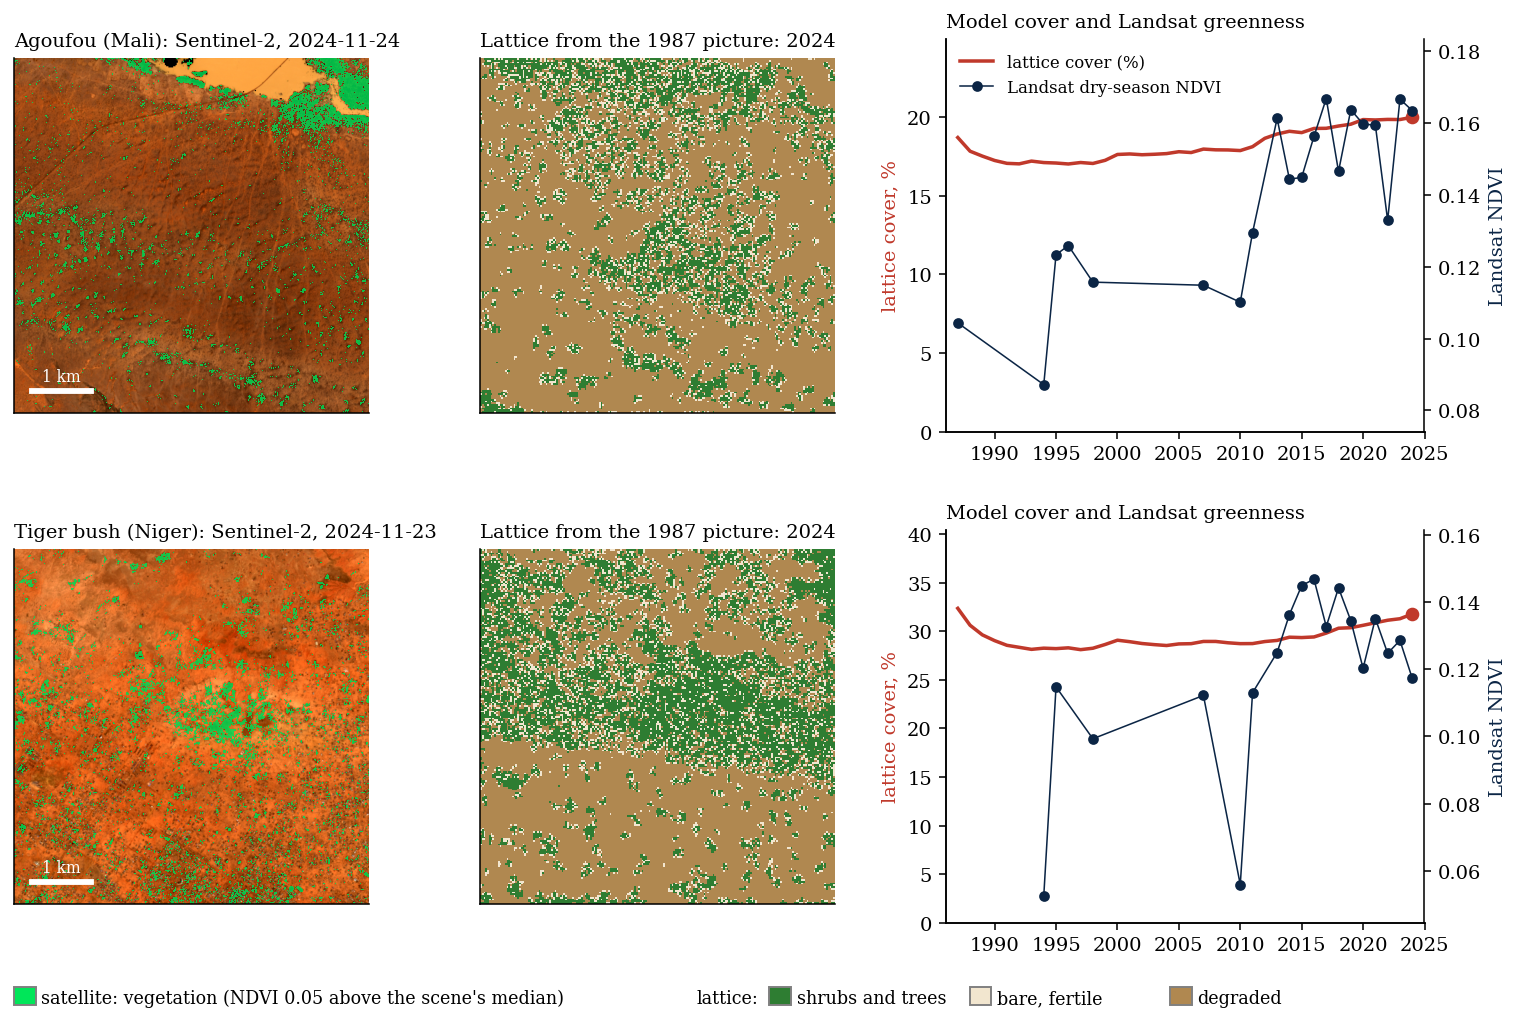
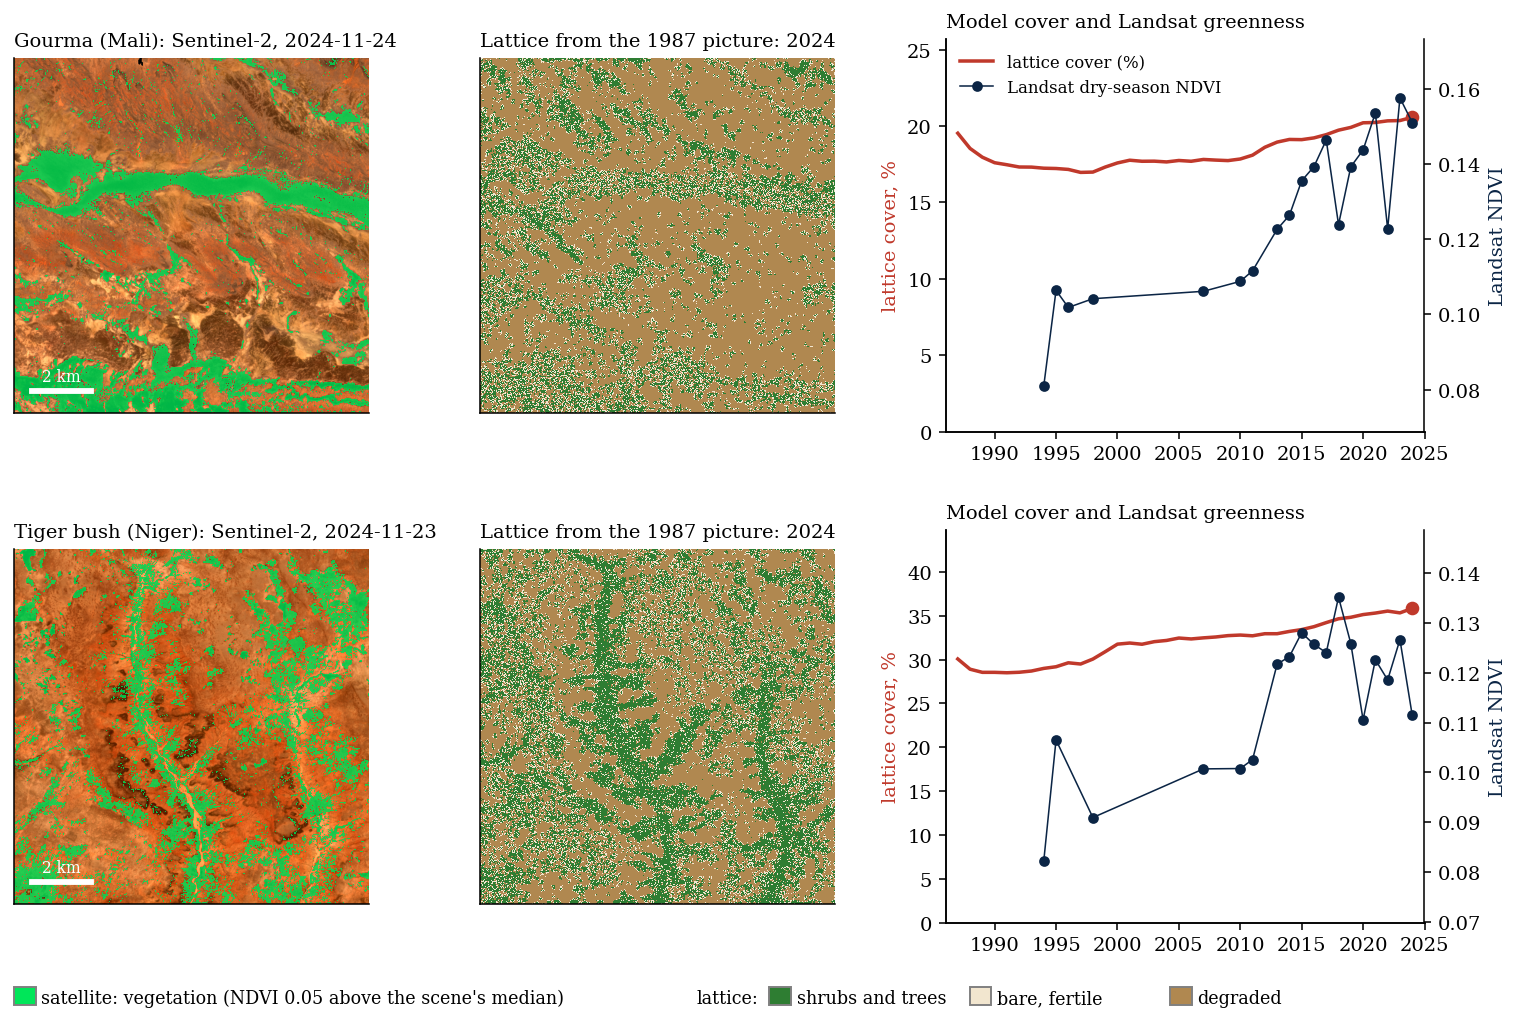
016: animation at 12 km sites (Gourma valley, Niamey tiger bush), full-coverage scenes, 400 x 400 lattice

diff --git a/016-sahel-desertification/animate_landsat.py b/016-sahel-desertification/animate_landsat.py
@@ -1,14 +1,15 @@
 #!/usr/bin/env python3
 #-------- animate_landsat.py --------------------------------------------------------
 #-----------------------------------------------------------------------------
-# The lattice beside forty years of real satellite pictures, at two Sahel sites with woody
-# vegetation and no fields: Agoufou in the Gourma (Mali), dune shrubland, and a tiger-bush
-# plateau north of Niamey (Niger), where the bush has been cut for firewood.
+# The lattice beside forty years of real satellite pictures, at two 12 x 12 km Sahel sites
+# with woody vegetation and no fields: a wooded valley and shrubland in the Gourma (Mali,
+# 15.20 N 1.40 W), and a tiger-bush plateau north of Niamey (Niger, 13.70 N 1.95 E), where
+# the bush has been cut for firewood.
 #
 # Each frame is one year, 1987-2024. For each site:
-#   left     the satellite picture of the 6 x 6 km site in true colour: the clearest
+#   left     the satellite picture of the 12 x 12 km site in true colour: the clearest
 #            October-November scene (fetch_site_pictures.py), Landsat at 30 m to 2015 and
-#            Sentinel-2 at 10 m from 2016, one brightness stretch for all three bands. Bright
+#            Sentinel-2 at 20 m from 2016, only scenes covering the whole box, one brightness stretch for all three bands. Bright
 #            green marks pixels clearly greener than the scene's own background (NDVI 0.05
 #            above its median). Landsat 5's archive over West Africa has gaps, so the latest
 #            available scene is shown, labelled with its sensor and date
@@ -43,8 +44,8 @@ from sahel_ca import Landscape, VEG, EMPTY, quality_field
 HERE = os.path.dirname(os.path.abspath(__file__))
 NAVY, BLUE, LIGHT, RED, GREY = "#0b2545", "#1f6fb2", "#8cc0e8", "#c0392b", "#8a8a8a"
 CMAP = ListedColormap(["#b08850", "#f2e6cf", "#2e7d32"])        # degraded, empty, vegetated
-SITES = {"agoufou": "Agoufou (Mali)", "tigerbush": "Tiger bush (Niger)"}
-B0, D0, SEED_RAIN, N = 0.45, 0.3, 0.03, 200
+SITES = {"gourma_wadi": "Gourma (Mali)", "tigerbush_plateau": "Tiger bush (Niger)"}
+B0, D0, SEED_RAIN, N = 0.45, 0.3, 0.03, 400           # 400 x 400 cells of 30 m: a 12 x 12 km site
 DELTA, GROUND_LENGTH = 0.03, 8                   # local seed spread; hollows judged against the land within ~240 m
 STRENGTHS = [0.25, 0.5, 0.75, 1.0]               # uneven-ground strength: the weakest that clumps about as well as the best
 START = 1987                                     # both runs start from that year's satellite picture
@@ -70,10 +71,9 @@ def ground_quality(site, strength):
 
 
 def picture_ndvi(site, year):
+    from clumping import to_grid
     pics = np.load(os.path.join(HERE, "data", f"pictures_{site}.npz"))
-    a = pics[f"rgb_{year}"].astype(float)
-    if a.shape[0] == 600:
-        a = a.reshape(200, 3, 200, 3, 4).mean(axis=(1, 3))
+    a = to_grid(pics[f"rgb_{year}"].astype(float), N)
     return (a[..., 3] - a[..., 0]) / (a[..., 3] + a[..., 0] + 1e-6)
 
 
@@ -118,7 +118,7 @@ def choose_strength(site):
     res = []
     for st in STRENGTHS:
         grids, cover, _ = run_lattice(site, st)
-        sat = satellite_clumping(site, {int(k): v for k, v in cover.items()})
+        sat = satellite_clumping(site, {int(k): v for k, v in cover.items()}, n=N)
         yrs = [y for y in sat if y in grids and y > START]
         lat_c = np.mean([clump(grids[y] == VEG) for y in yrs]); sat_c = np.nanmean([sat[y] for y in yrs])
         res.append((st, abs(float(np.log(lat_c / sat_c))), lat_c, sat_c))
@@ -168,13 +168,13 @@ def main():
             if avail:
                 k = avail[-1]
                 im = D["rgb"][k]
-                ax.imshow(stretch(im[..., :3]), extent=(0, 200, 200, 0))
-                ax.imshow(veg_overlay(im), extent=(0, 200, 200, 0), interpolation="nearest")
+                ax.imshow(stretch(im[..., :3]), extent=(0, N, N, 0))
+                ax.imshow(veg_overlay(im), extent=(0, N, N, 0), interpolation="nearest")
                 ax.set_title(f"{SITES[site]}: {D['sensors'][k]}, {D['dates'][k]}", loc="left", fontsize=10)
             else:
                 ax.text(0.5, 0.5, "no clear scene yet", ha="center", va="center", transform=ax.transAxes, color=GREY)
                 ax.set_title(f"{SITES[site]}: satellite", loc="left", fontsize=10)
-            ax.plot([10, 10 + 1000 / 30], [188, 188], color="w", lw=3); ax.text(10 + 500 / 30, 182, "1 km", color="w", ha="center", fontsize=8)
+            ax.plot([0.05 * N, 0.05 * N + 2000 / 30], [0.94 * N] * 2, color="w", lw=3); ax.text(0.05 * N + 1000 / 30, 0.91 * N, "2 km", color="w", ha="center", fontsize=8)
             ax.set_xticks([]); ax.set_yticks([])
             ax = fig.add_subplot(gs[r, 1])
             ax.imshow(D["grids"][year], cmap=CMAP, vmin=-1, vmax=1, interpolation="nearest")

diff --git a/016-sahel-desertification/fetch_site_pictures.py b/016-sahel-desertification/fetch_site_pictures.py
@@ -14,6 +14,9 @@
 #
 #   python fetch_site_pictures.py      (Earth Engine account; EE_PROJECT)
 #
+# The animation sites are 12 x 12 km (Landsat 400 x 400 pixels, Sentinel-2 at 20 m, 600 x 600),
+# and only scenes covering at least 99% of the box are used.
+#
 # Output: data/pictures_<site>.npz (years, dates, sensors, and one r,g,b,nir array per year)
 
 import os
@@ -22,7 +25,9 @@ import numpy as np
 
 HERE = os.path.dirname(os.path.abspath(__file__))
 SITES = {"gourma": (15.33, -1.55, "EPSG:32630"), "fakara": (13.50, 2.70, "EPSG:32631"),
-         "agoufou": (15.34, -1.48, "EPSG:32630"), "tigerbush": (13.60, 2.05, "EPSG:32631")}   # the last two: the animation sites
+         "agoufou": (15.34, -1.48, "EPSG:32630"), "tigerbush": (13.60, 2.05, "EPSG:32631"),
+         "gourma_wadi": (15.20, -1.40, "EPSG:32630"), "tigerbush_plateau": (13.70, 1.95, "EPSG:32631")}   # the last two: the animation sites
+BOX_OF = {"gourma_wadi": 12000, "tigerbush_plateau": 12000}                                          # the animation sites are 12 km boxes
 BOX = 6000
 
 
@@ -49,8 +54,9 @@ def main():
         if os.path.exists(os.path.join(HERE, "data", f"pictures_{site}.npz")) and "--refresh" not in __import__("sys").argv:
             continue
         pt = ee.Geometry.Point([lon, lat])
+        box_m = BOX_OF.get(site, BOX)
         x0, y0 = pt.transform(crs, 1).coordinates().getInfo()
-        x0 -= BOX / 2; y0 += BOX / 2
+        x0 -= box_m / 2; y0 += box_m / 2
         out = {}
         for y in range(1985, 2026):
             if y == 2012:
@@ -60,20 +66,27 @@ def main():
             elif y <= 2015:
                 col = ee.ImageCollection("LANDSAT/LC08/C02/T1_L2").filterDate(f"{y}-10-01", f"{y}-12-01").filterBounds(pt).map(landsat(("SR_B4", "SR_B3", "SR_B2", "SR_B5"))); px, sensor = 30, "Landsat 8"
             else:
-                col = ee.ImageCollection("COPERNICUS/S2_SR_HARMONIZED").filterDate(f"{y}-10-01", f"{y}-12-01").filterBounds(pt).map(s2); px, sensor = 10, "Sentinel-2"
-            if col.size().getInfo() == 0:
+                col = ee.ImageCollection("COPERNICUS/S2_SR_HARMONIZED").filterDate(f"{y}-10-01", f"{y}-12-01").filterBounds(pt).map(s2); px, sensor = (20 if site in BOX_OF else 10), "Sentinel-2"
+            n_scenes = col.size().getInfo()
+            if n_scenes == 0:
                 continue
-            best = ee.Image(col.sort("cc").first())
-            n = int(BOX / px)
-            arr = ee.data.computePixels({"expression": best.unmask(-9), "fileFormat": "NUMPY_NDARRAY",
-                                         "grid": {"dimensions": {"width": n, "height": n},
-                                                  "affineTransform": {"scaleX": px, "shearX": 0, "translateX": x0,
-                                                                      "shearY": 0, "scaleY": -px, "translateY": y0},
-                                                  "crsCode": crs}})
-            rgb = np.stack([np.array(arr[b], dtype=np.float32) for b in "rgbn"], axis=-1)
-            rgb[rgb == -9] = np.nan
-            if np.isnan(rgb).mean() > 0.1:
-                print(site, y, "too cloudy, skipped", flush=True)
+            n = int(box_m / px)
+            scenes = col.sort("cc").toList(min(n_scenes, 8))
+            rgb, best = None, None
+            for k in range(min(n_scenes, 8)):                  # the clearest scene that covers the whole box
+                cand = ee.Image(scenes.get(k))
+                arr = ee.data.computePixels({"expression": cand.unmask(-9), "fileFormat": "NUMPY_NDARRAY",
+                                             "grid": {"dimensions": {"width": n, "height": n},
+                                                      "affineTransform": {"scaleX": px, "shearX": 0, "translateX": x0,
+                                                                          "shearY": 0, "scaleY": -px, "translateY": y0},
+                                                      "crsCode": crs}})
+                a_ = np.stack([np.array(arr[b], dtype=np.float32) for b in "rgbn"], axis=-1)
+                a_[a_ == -9] = np.nan
+                if np.isnan(a_).mean() < (0.01 if site in BOX_OF else 0.1):
+                    rgb, best = a_, cand
+                    break
+            if rgb is None:
+                print(site, y, "no scene covers the box, skipped", flush=True)
                 continue
             date = ee.Date(best.get("system:time_start")).format("YYYY-MM-dd").getInfo()
             out[y] = (date, sensor, rgb)

diff --git a/016-sahel-desertification/fetch_site_ground.py b/016-sahel-desertification/fetch_site_ground.py
@@ -1,10 +1,10 @@
 #!/usr/bin/env python3
 #-------- fetch_site_ground.py ------------------------------------------------------
 #-----------------------------------------------------------------------------
-# Rain and ground for the two animation sites (Agoufou in the Gourma, and a tiger-bush
-# plateau north of Niamey):
+# Rain and ground for the two animation sites (a wooded valley and shrubland in the Gourma,
+# and a tiger-bush plateau north of Niamey), 12 x 12 km:
 #   rain        CHIRPS June-September totals, 1981-2024, the mean over a 0.2 x 0.2 deg box
-#   elevation   Copernicus DEM GLO-30 (30 m), on the same 6 x 6 km, 30 m grid as the
+#   elevation   Copernicus DEM GLO-30 (30 m), on the same 12 x 12 km, 30 m grid as the
 #               Landsat pictures, for the lattice's uneven ground: water runs into the
 #               hollows, so lower-than-surroundings cells get better site quality
 #
@@ -20,7 +20,7 @@ import pandas as pd
 from fetch_site_pictures import SITES
 
 HERE = os.path.dirname(os.path.abspath(__file__))
-ANIM = ["agoufou", "tigerbush"]
+ANIM = ["gourma_wadi", "tigerbush_plateau"]
 
 
 def main():
@@ -36,9 +36,9 @@ def main():
         pd.Series({y: v[f"r{y}"] for y in range(1981, 2025)}, name="rain_jjas").rename_axis("year").to_csv(
             os.path.join(HERE, "data", f"rain_jjas_{site}.csv"))
         x0, y0 = ee.Geometry.Point([lon, lat]).transform(crs, 1).coordinates().getInfo()
-        x0 -= 3000; y0 += 3000
+        x0 -= 6000; y0 += 6000
         arr = ee.data.computePixels({"expression": dem.rename("dem"), "fileFormat": "NUMPY_NDARRAY",
-                                     "grid": {"dimensions": {"width": 200, "height": 200},
+                                     "grid": {"dimensions": {"width": 400, "height": 400},
                                               "affineTransform": {"scaleX": 30, "shearX": 0, "translateX": x0,
                                                                   "shearY": 0, "scaleY": -30, "translateY": y0},
                                               "crsCode": crs}})

diff --git a/016-sahel-desertification/fetch_landsat_sites.py b/016-sahel-desertification/fetch_landsat_sites.py
@@ -25,7 +25,9 @@ import numpy as np
 
 HERE = os.path.dirname(os.path.abspath(__file__))
 SITES = {"gourma": (15.33, -1.55, "EPSG:32630"), "fakara": (13.50, 2.70, "EPSG:32631"),
-         "agoufou": (15.34, -1.48, "EPSG:32630"), "tigerbush": (13.60, 2.05, "EPSG:32631")}   # the last two: the animation sites
+         "agoufou": (15.34, -1.48, "EPSG:32630"), "tigerbush": (13.60, 2.05, "EPSG:32631"),
+         "gourma_wadi": (15.20, -1.40, "EPSG:32630"), "tigerbush_plateau": (13.70, 1.95, "EPSG:32631")}   # the last two: the animation sites
+SIZE_OF = {"gourma_wadi": 400, "tigerbush_plateau": 400}                                                     # 12 km boxes
 YEARS = [y for y in range(1985, 2025) if y != 2012]
 PX, SIZE = 30, 200
 
@@ -51,8 +53,9 @@ def main():
         if os.path.exists(path):
             continue
         pt = ee.Geometry.Point([lon, lat])
+        SZ = SIZE_OF.get(site, SIZE)
         x0, y0 = pt.transform(crs, 1).coordinates().getInfo()
-        x0 -= SIZE * PX / 2; y0 += SIZE * PX / 2
+        x0 -= SZ * PX / 2; y0 += SZ * PX / 2
         nd_stack, rgb_stack, got, dates = [], [], [], []
         for y in YEARS:
             if y <= 2011:
@@ -68,7 +71,7 @@ def main():
                 continue
             img = ee.Image(col.sort("CLOUD_COVER").first()).unmask(-9)
             arr = ee.data.computePixels({"expression": img, "fileFormat": "NUMPY_NDARRAY",
-                                         "grid": {"dimensions": {"width": SIZE, "height": SIZE},
+                                         "grid": {"dimensions": {"width": SZ, "height": SZ},
                                                   "affineTransform": {"scaleX": PX, "shearX": 0, "translateX": x0,
                                                                       "shearY": 0, "scaleY": -PX, "translateY": y0},
                                                   "crsCode": crs}})

diff --git a/016-sahel-desertification/clumping.py b/016-sahel-desertification/clumping.py
@@ -49,13 +49,23 @@ def clump(mask):
     return float(q / rho)
 
 
-def satellite_clumping(site, cover_by_year):
+def to_grid(a, n):
+    """Resample a picture (pixels x pixels x bands) to the n x n lattice grid by averaging."""
+    if a.shape[0] == n:
+        return a
+    k = a.shape[0] / n
+    if float(k).is_integer():
+        k = int(k)
+        return a.reshape(n, k, n, k, a.shape[2]).mean(axis=(1, 3))
+    from scipy.ndimage import zoom
+    return zoom(np.nan_to_num(a, nan=np.nanmedian(a)), (n / a.shape[0], n / a.shape[1], 1), order=1)
+
+
+def satellite_clumping(site, cover_by_year, n=200):
     d = np.load(os.path.join(HERE, "data", f"pictures_{site}.npz"))
     out = {}
     for y, sen in zip(d["years"], d["sensors"]):
-        a = d[f"rgb_{y}"].astype(float)
-        if a.shape[0] == 600:                                   # Sentinel-2 10 m -> 30 m
-            a = a.reshape(200, 3, 200, 3, 4).mean(axis=(1, 3))
+        a = to_grid(d[f"rgb_{y}"].astype(float), n)             # to the lattice's 30 m cells
         nd = (a[..., 3] - a[..., 0]) / (a[..., 3] + a[..., 0] + 1e-6)
         rho = cover_by_year.get(int(y), cover_by_year[max(k for k in cover_by_year if k <= max(int(y), min(cover_by_year)))])
         thr = np.nanquantile(nd, 1 - rho)

diff --git a/016-sahel-desertification/README.md b/016-sahel-desertification/README.md
@@ -114,13 +114,13 @@ The limits are worth stating. The covariates are snapshots (cropland in 2021, li
 - **On the rest it matches rain.** The level across sites ties (0.56), the 40-year trend ties (0.55), and the recovery from the drought is 0.36 against 0.34. Across settings the recovery score moves a lot (0.06 to 0.46), so it isn't well pinned down.
 - **What this means.** With seed rain, the lattice is a model of the Sahel's woody cover that is at least as good as rain and a little better at the year-to-year detail, because its cover carries memory of past years the way shrubs do. It still isn't evidence of tipping: the facilitation and hysteresis would show as sites failing to recover after the droughts, and the satellite record doesn't separate that from rain. Fakara, where the land didn't come back, is still the clearest case, and land use is still the missing driver.
 
-**Forty years beside the satellites.** The animation runs 1987 to 2024 at two sites with woody vegetation and no fields, chosen so the picture isn't dominated by crops changing from year to year: Agoufou in the Gourma (Mali), dune shrubland, and a tiger-bush plateau north of Niamey (Niger), where the bush has been cut for firewood. On the left is the real site, 6 × 6 km in true colour: the clearest October-November scene each year (just after the rains, when the air is clearest), from Landsat at 30 m to 2015 and Sentinel-2 at 10 m from 2016; a frame shows the latest scene available, labelled with its date. Bright green marks the pixels clearly greener than that scene's own background (NDVI 0.05 above its median): shrubs, trees and wet hollows. The cut-off is relative to each scene because October-November grass is still green in some years and dry in others, so the overlay shows where the vegetation is rather than measuring how much.
+**Forty years beside the satellites.** The animation runs 1987 to 2024 at two 12 × 12 km sites with woody vegetation and no fields, chosen so the picture isn't dominated by crops changing from year to year: a wooded valley and shrubland in the Gourma (Mali, 15.20° N 1.40° W, the greenest of seven Gourma boxes checked), and a tiger-bush plateau north of Niamey (Niger, 13.70° N 1.95° E), where the bush has been cut for firewood. On the left is the real site in true colour: the clearest October-November scene each year that covers the whole box (just after the rains, when the air is clearest), from Landsat at 30 m to 2015 and Sentinel-2 at 20 m from 2016; a frame shows the latest scene available, labelled with its date. Bright green marks the pixels clearly greener than that scene's own background (NDVI 0.05 above its median): shrubs, trees and wet hollows. The cut-off is relative to each scene because October-November grass is still green in some years and dry in others, so the overlay shows where the vegetation is rather than measuring how much.
 
-In the middle is the lattice, one cell per 30 m pixel. It starts from the real 1987 pattern: the picture's greenest pixels are vegetated, up to the cover the model supports in that climate, and the degraded share is scattered among the bare pixels, since a picture can't tell degraded ground from fertile bare ground. It then runs on the site's own CHIRPS rain with the rates fitted across the Sahel above, on uneven ground taken from the Copernicus 30 m elevation model: cells lower than the land within about 240 m collect run-off and get better site quality. The ground's strength is the weakest that makes the lattice about as clumped as the satellite vegetation; stronger ground pins the patches to the same spots. On the right, the lattice's cover against Landsat's dry-season greenness, which measures the woody cover the lattice models. `fetch_site_pictures.py` · `fetch_landsat_sites.py` · `fetch_site_ground.py` · `animate_landsat.py`
+In the middle is the lattice, 400 × 400 cells of 30 m. It starts from the real 1987 pattern: the picture's greenest pixels are vegetated, up to the cover the model supports in that climate, and the degraded share is scattered among the bare pixels, since a picture can't tell degraded ground from fertile bare ground. It then runs on the site's own CHIRPS rain with the rates fitted across the Sahel above, on uneven ground taken from the Copernicus 30 m elevation model: cells lower than the land within about 240 m collect run-off and get better site quality. The ground's strength is the weakest that makes the lattice about as clumped as the satellite vegetation; stronger ground pins the patches to the same spots. On the right, the lattice's cover against Landsat's dry-season greenness, which measures the woody cover the lattice models. `fetch_site_pictures.py` · `fetch_landsat_sites.py` · `fetch_site_ground.py` · `animate_landsat.py`
 
-![Agoufou and a tiger-bush plateau, 1987-2024: the satellite picture, the lattice started from the real pattern, and model cover against Landsat greenness](figures/fig15_landsat_animation.gif)
+![A Gourma valley and a tiger-bush plateau, 1987-2024: the satellite picture, the lattice started from the real pattern, and model cover against Landsat greenness](figures/fig15_landsat_animation.gif)
 
-Started from the real pattern, the lattice keeps the sites' main patches where they are (the tiger-bush plateau's central thicket, Agoufou's shrubs in the dune hollows) and its cover barely moves, about 19-20% at Agoufou and 32% on the plateau. Landsat's greenness rose at both, by about 30% since the late 1980s. The model on rain alone holds the land steady where the satellites see it greening, the same gap as across the Sahel. Its clumping ends 16% (Agoufou) and 11% (plateau) below the satellites'. `results/animation_clumping.txt`
+The pictures show the re-greening plainly: the Gourma valley's trees grow from a thin line in 1987 to a broad band by 2009, and the plateau's thickets thicken along its drainage lines. Started from the real pattern, the lattice picks up that drainage pattern from the elevation model, with vegetation along the plateau's valleys, but its cover moves little: 20% to 21% in the Gourma, 30% to 36% on the plateau, while Landsat's greenness rose about 35% and 29%. The model on rain alone holds the Gourma steady where the satellites see it greening, the same gap as across the Sahel. Its clumping stays below the satellites': 34% below in the Gourma, where the wooded valley is one solid band, and 22% below on the plateau. `results/animation_clumping.txt`
 
 **How clumped is the vegetation?** In the first version of the animation the lattice looked speckled beside the satellites, and the numbers agree. Clumping is measured as in Kéfi et al.: the chance that a neighbour of a vegetated cell is also vegetated, over the share of cells vegetated (1 is a random scatter, higher means patches). Comparing the lattice with each satellite picture at the same density (the greenest pixels, at 30 m, up to the lattice's cover), the real vegetation is about 40% more clumped: 2.8 against 2.0 at Gourma, 1.7 against 1.2 at Fakara. Making seeds travel shorter distances, or cutting the seed rain, barely changes that. `clumping.py`
 
